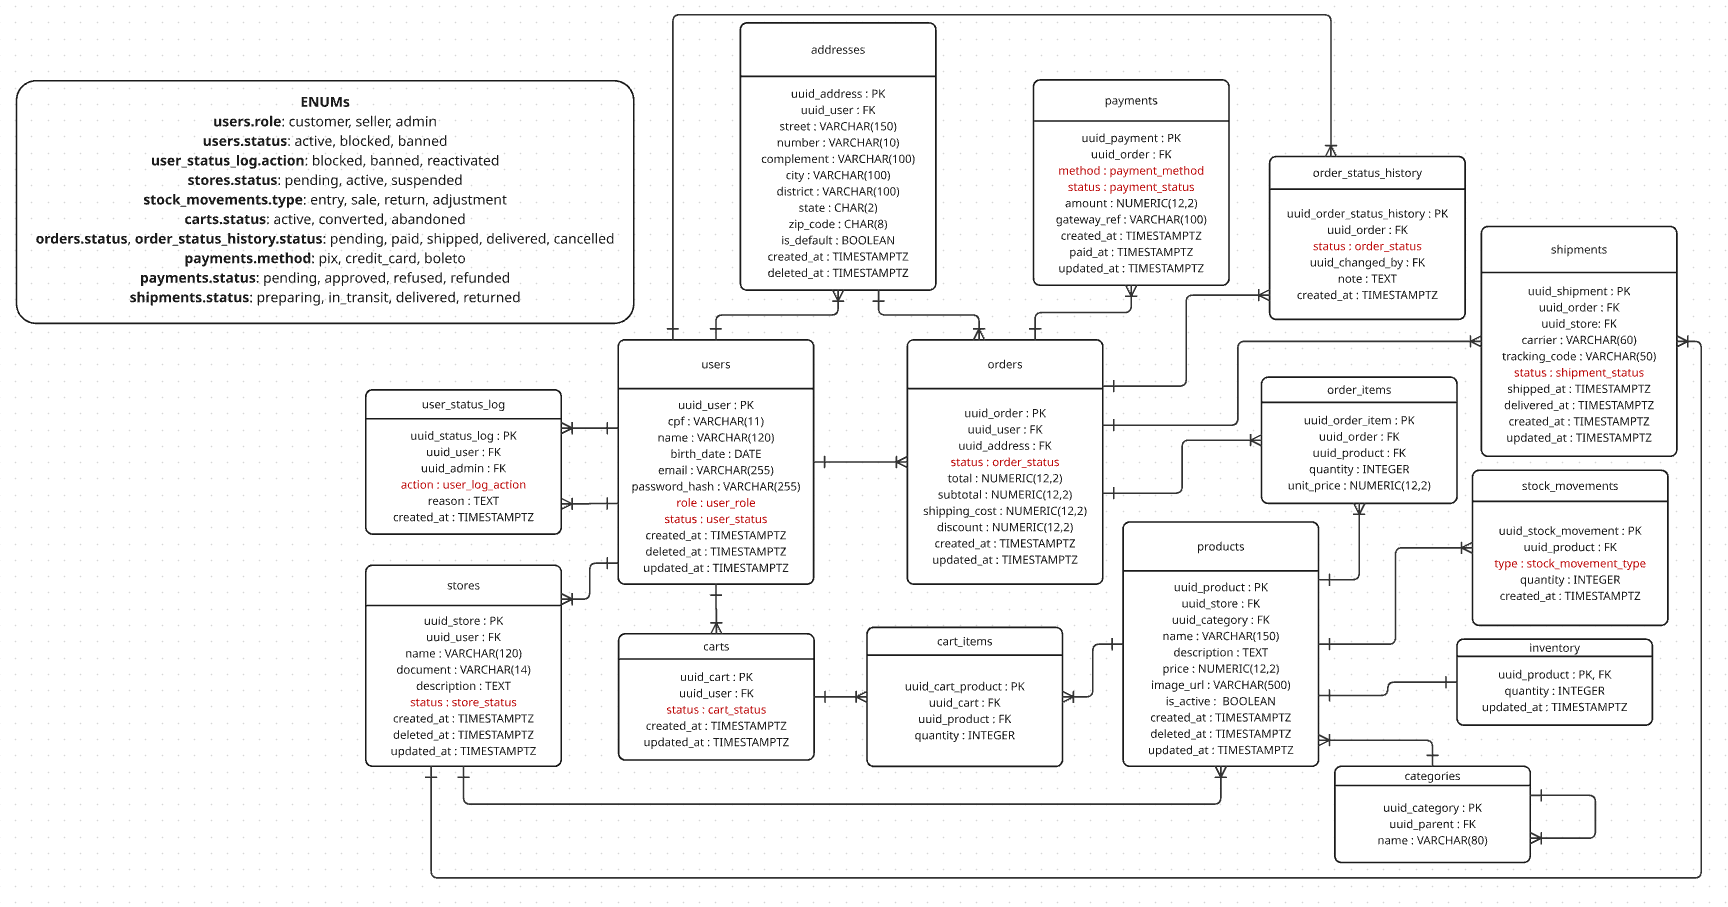
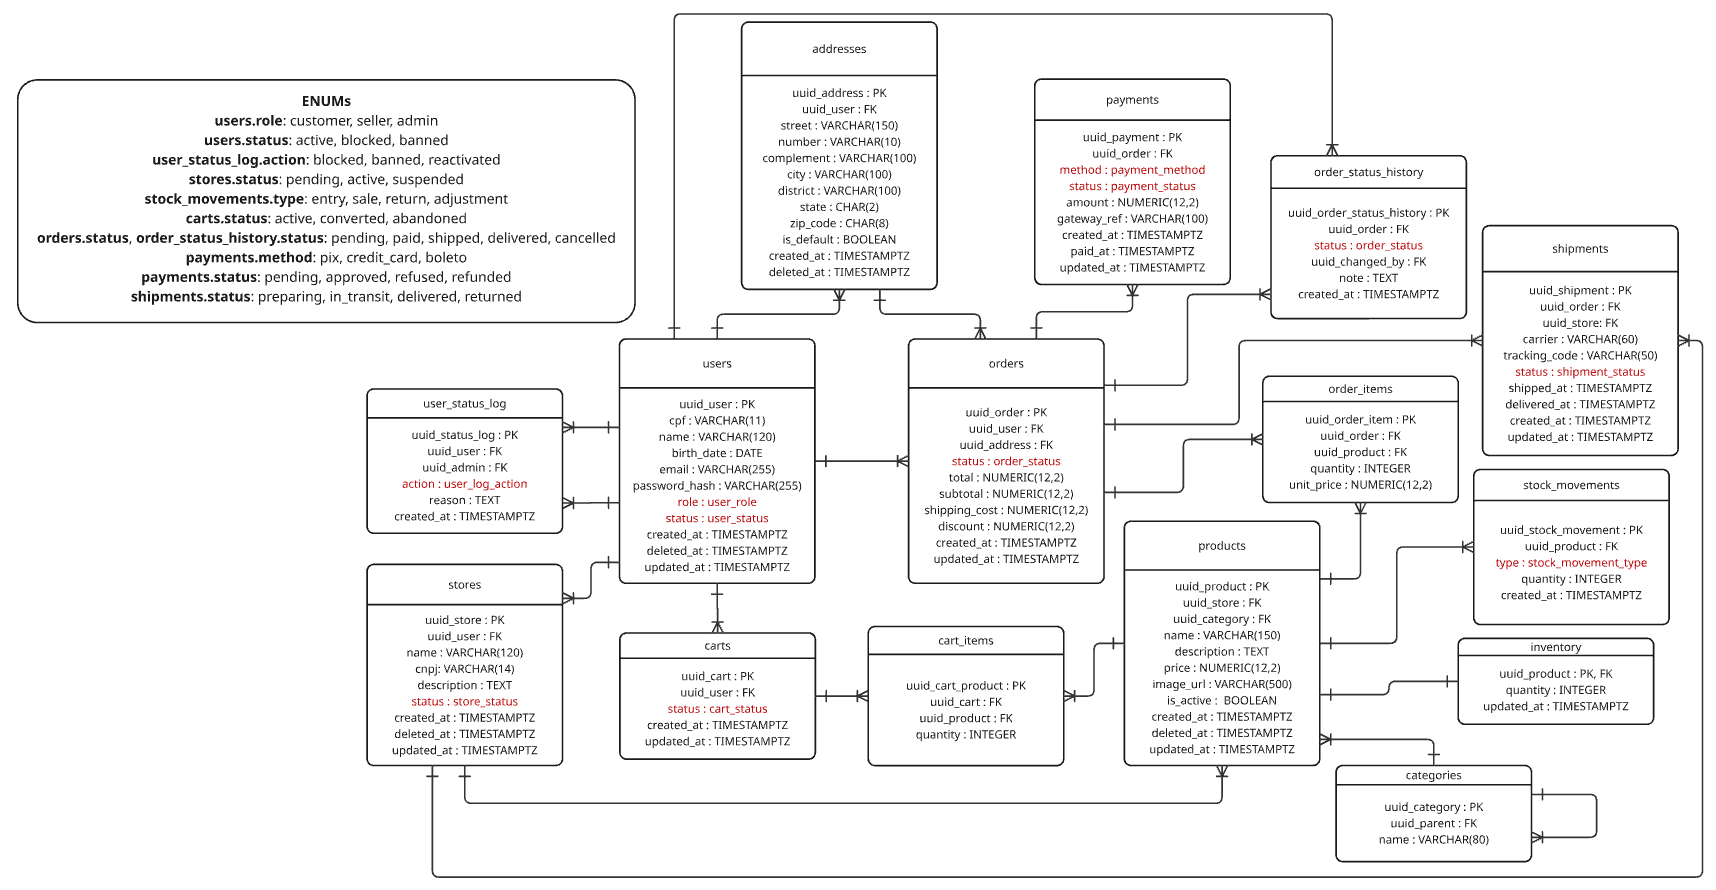
Finalizing V1 of the database migration, the entire database table structure has been created.

Changed region(s): [[0.0, 0.0, 1.0, 0.9708], [0.7413, 0.0, 0.7721, 0.0303], [0.3397, 0.091, 0.3706, 0.1213]]

diff --git a/README.md b/README.md
@@ -9,3 +9,19 @@ O usuário vai poder entrar na aplicação e olhar o catálogo de produtos vendi
 Ainda na parte de cadastro, a pessoa pode se cadastrar a loja dele como parceiro do e-commerce e cadastrar os produtos a serem vendidos, vai ter na visão de parceiro tela de controle de estoque e de vendas realizadas.
 
 Para a parte de administração, irá ter uma conta mestra que vai ter uma tela onde ele pode ver todos os usuários e cancelar a atividade deles, porém isso só vai dar um soft delete para preservar histórico.
+
+o sistema deve garantir também o email minúsculo no banco
+
+
+Sobre orders.status x payments.status
+O problema
+
+O mesmo fato do mundo real aparece em dois lugares: “esse pedido foi pago?”.
+
+payments.status = 'approved' diz que o pagamento foi aprovado.
+orders.status = 'paid' também diz que o pedido foi pago.
+
+por isso a aplicação deve realizar o pagamento com uma transação
+
+
+docker compose -f database/compose.yml down -v (para limpar migration)
